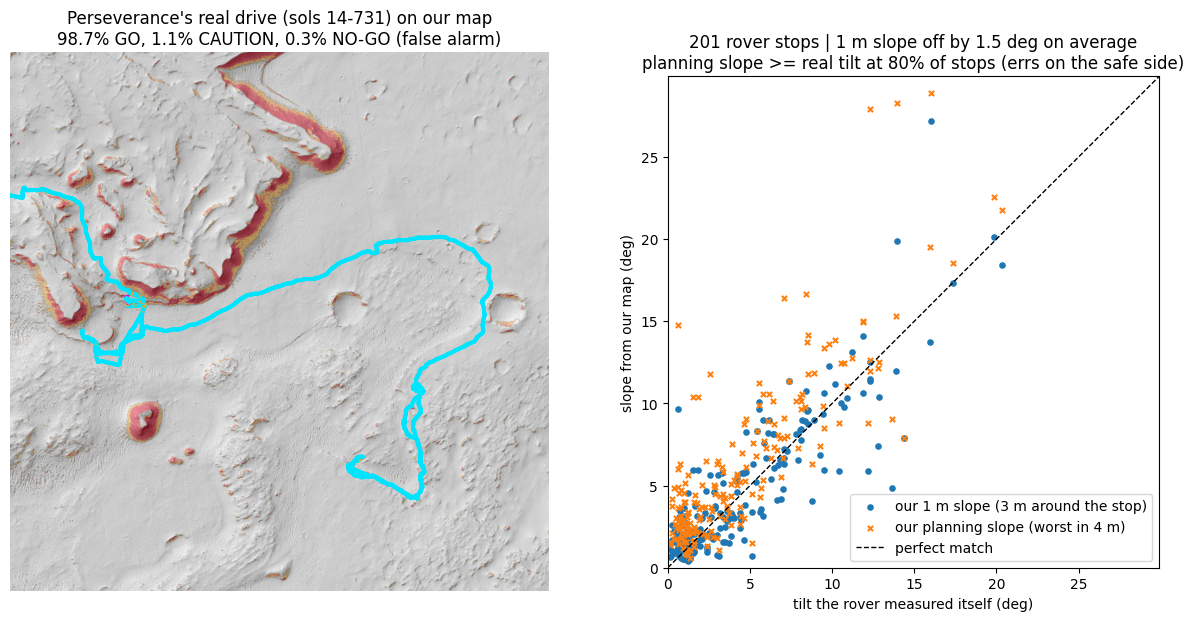
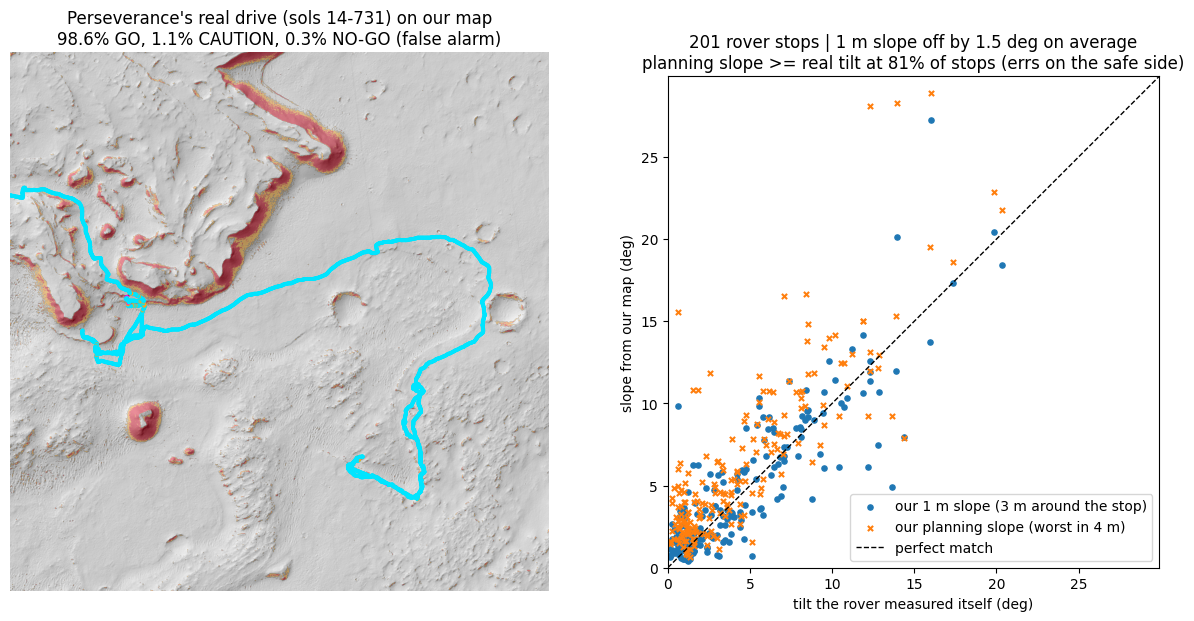
rover check uses the real east-west cell size, results basically the same: 98.6 percent go

diff --git a/validation/rover_check.py b/validation/rover_check.py
@@ -15,7 +15,7 @@ import numpy as np
 import rasterio
 from matplotlib.colors import LightSource, ListedColormap
 
-from pipeline.layers import slope_deg
+from pipeline.layers import ground_scale_x, slope_deg
 from planner.route import Site
 
 ROOT = Path(__file__).resolve().parents[1]
@@ -28,7 +28,7 @@ def drive_points(site, step_m=2.0):
     for f in json.load(open(ROVER / "M20_traverse.json"))["features"]:
         c = np.array(f["geometry"]["coordinates"])[:, :2]
         for a, b in zip(c[:-1], c[1:]):
-            n = max(2, int(np.hypot(*(b - a)) / 0.00034 * 20 / step_m))  # ~20 m per 0.00034 deg
+            n = max(2, int(np.hypot(*(b - a)) * 59275 / step_m))  # 1 deg on Mars = ~59.3 km
             for t in np.linspace(0, 1, n, endpoint=False):
                 pts.append(a + t * (b - a)); sols.append(f["properties"]["sol"])
     pts = np.array(pts)
@@ -54,7 +54,7 @@ def main():
     # slope vs rover tilt at stops
     with rasterio.open(ROOT / "data" / "jezero" / "dtm.tif") as src:
         dem, tr = src.read(1), src.transform
-    s1 = slope_deg(dem, 1.0)
+    s1 = slope_deg(dem, 1.0, ground_scale_x(18.45))
     rows = []
     for f in json.load(open(ROVER / "M20_waypoints.json"))["features"]:
         p = f["properties"]
